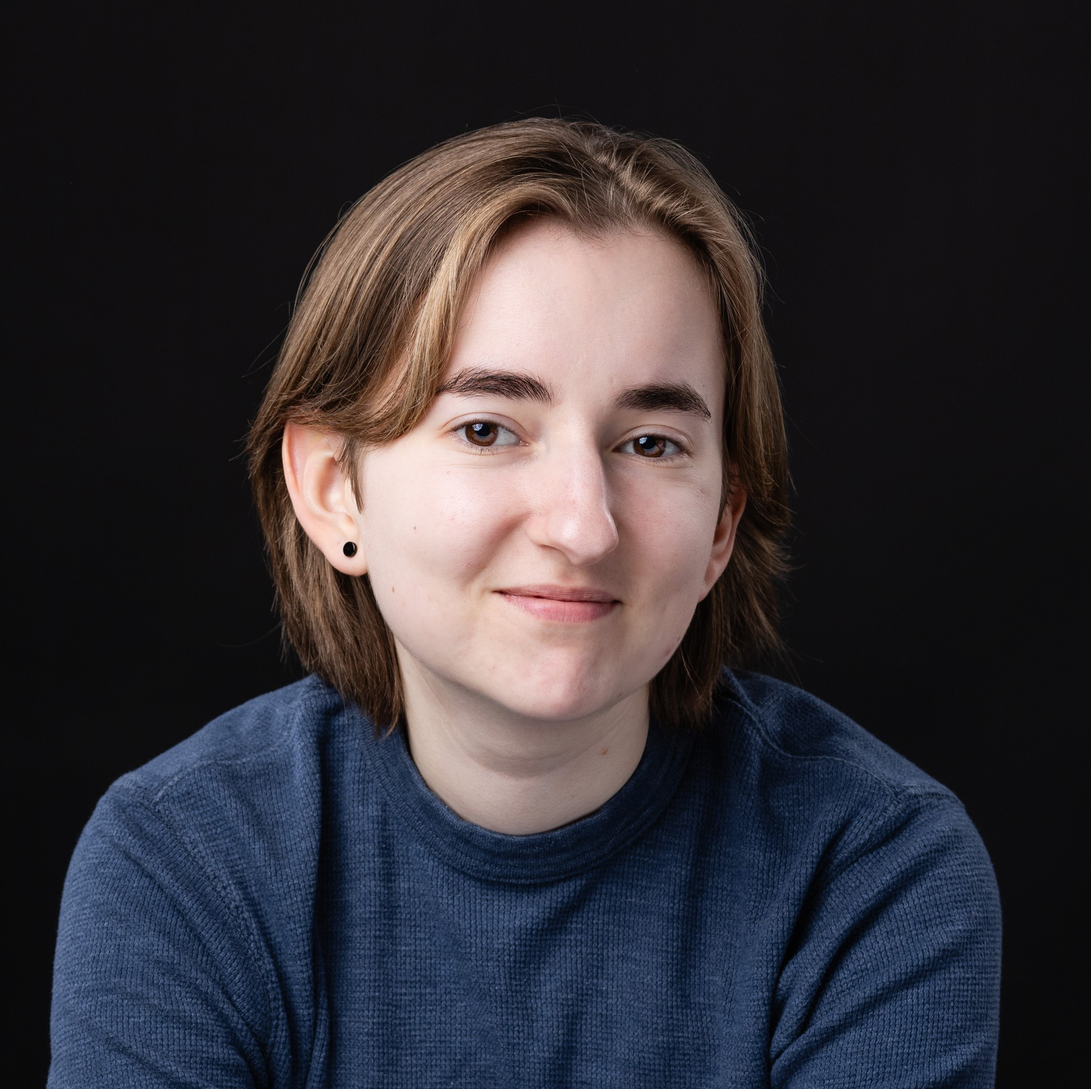
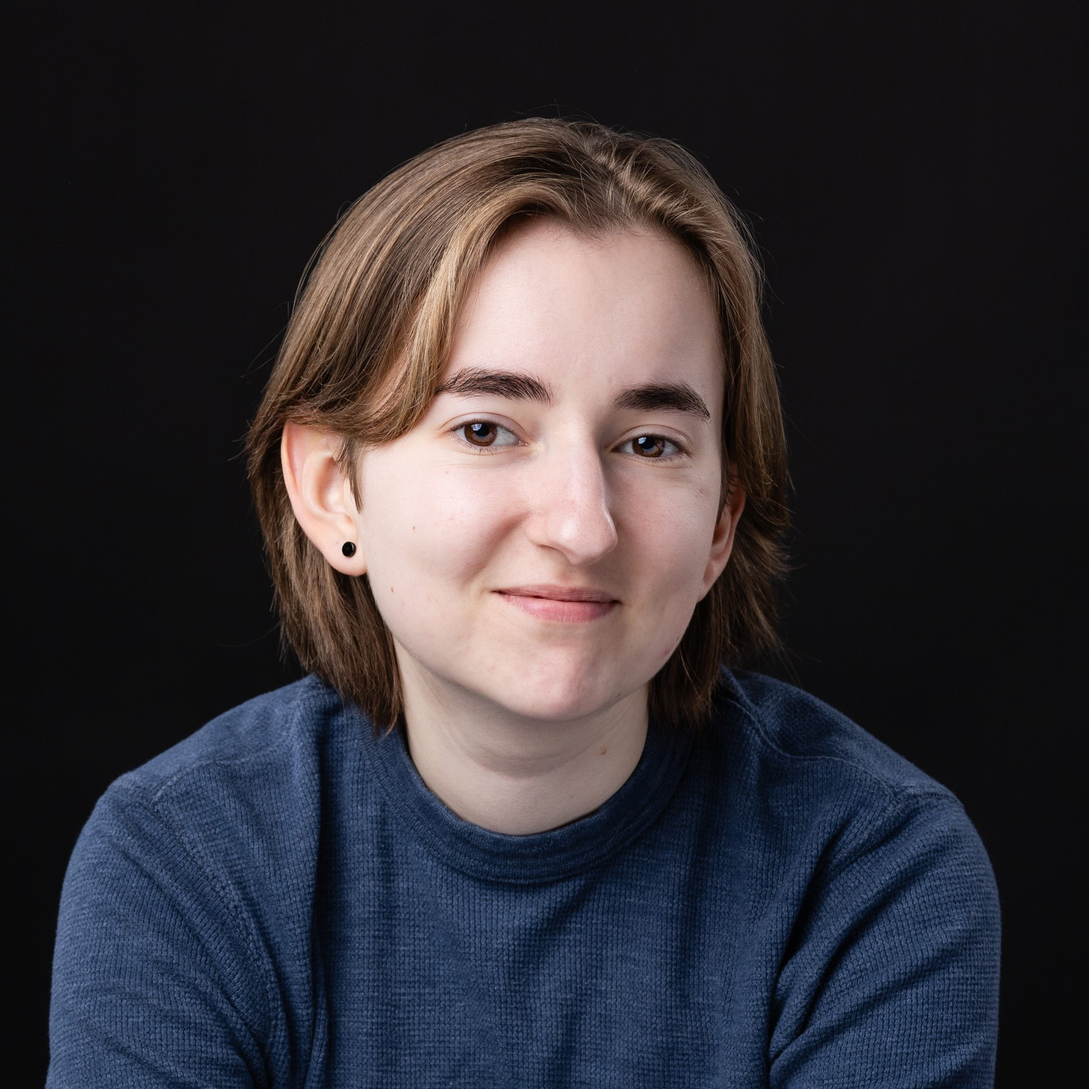
fixed portrait scaling

diff --git a/style.css b/style.css
@@ -30,9 +30,10 @@ img.zoom {
 }
 
 #portrait {
-  width: 200px;
   margin-top: 20px;
   margin-right: 20px;
+  width: 200px;
+  height: 200px;
 }
 
 img.logo {
@@ -58,6 +59,10 @@ img.content-img {
   display: inline-block;
   margin: auto;
   margin-top: 10px;
+}
+
+#header {
+  width: 100%;
 }
 
 .zoom:hover {

diff --git a/index.html b/index.html
@@ -10,6 +10,7 @@
     <body>
         <div id="page_container">
             <div id="content_wrap">
+                <!-- <img id="header" src="images/header.png" alt="header.png"> -->
                 <h1> MILA BROOKS</h1>
                 <h3>Game Dev • Artist • Programmer</h3>
                 <hr />
